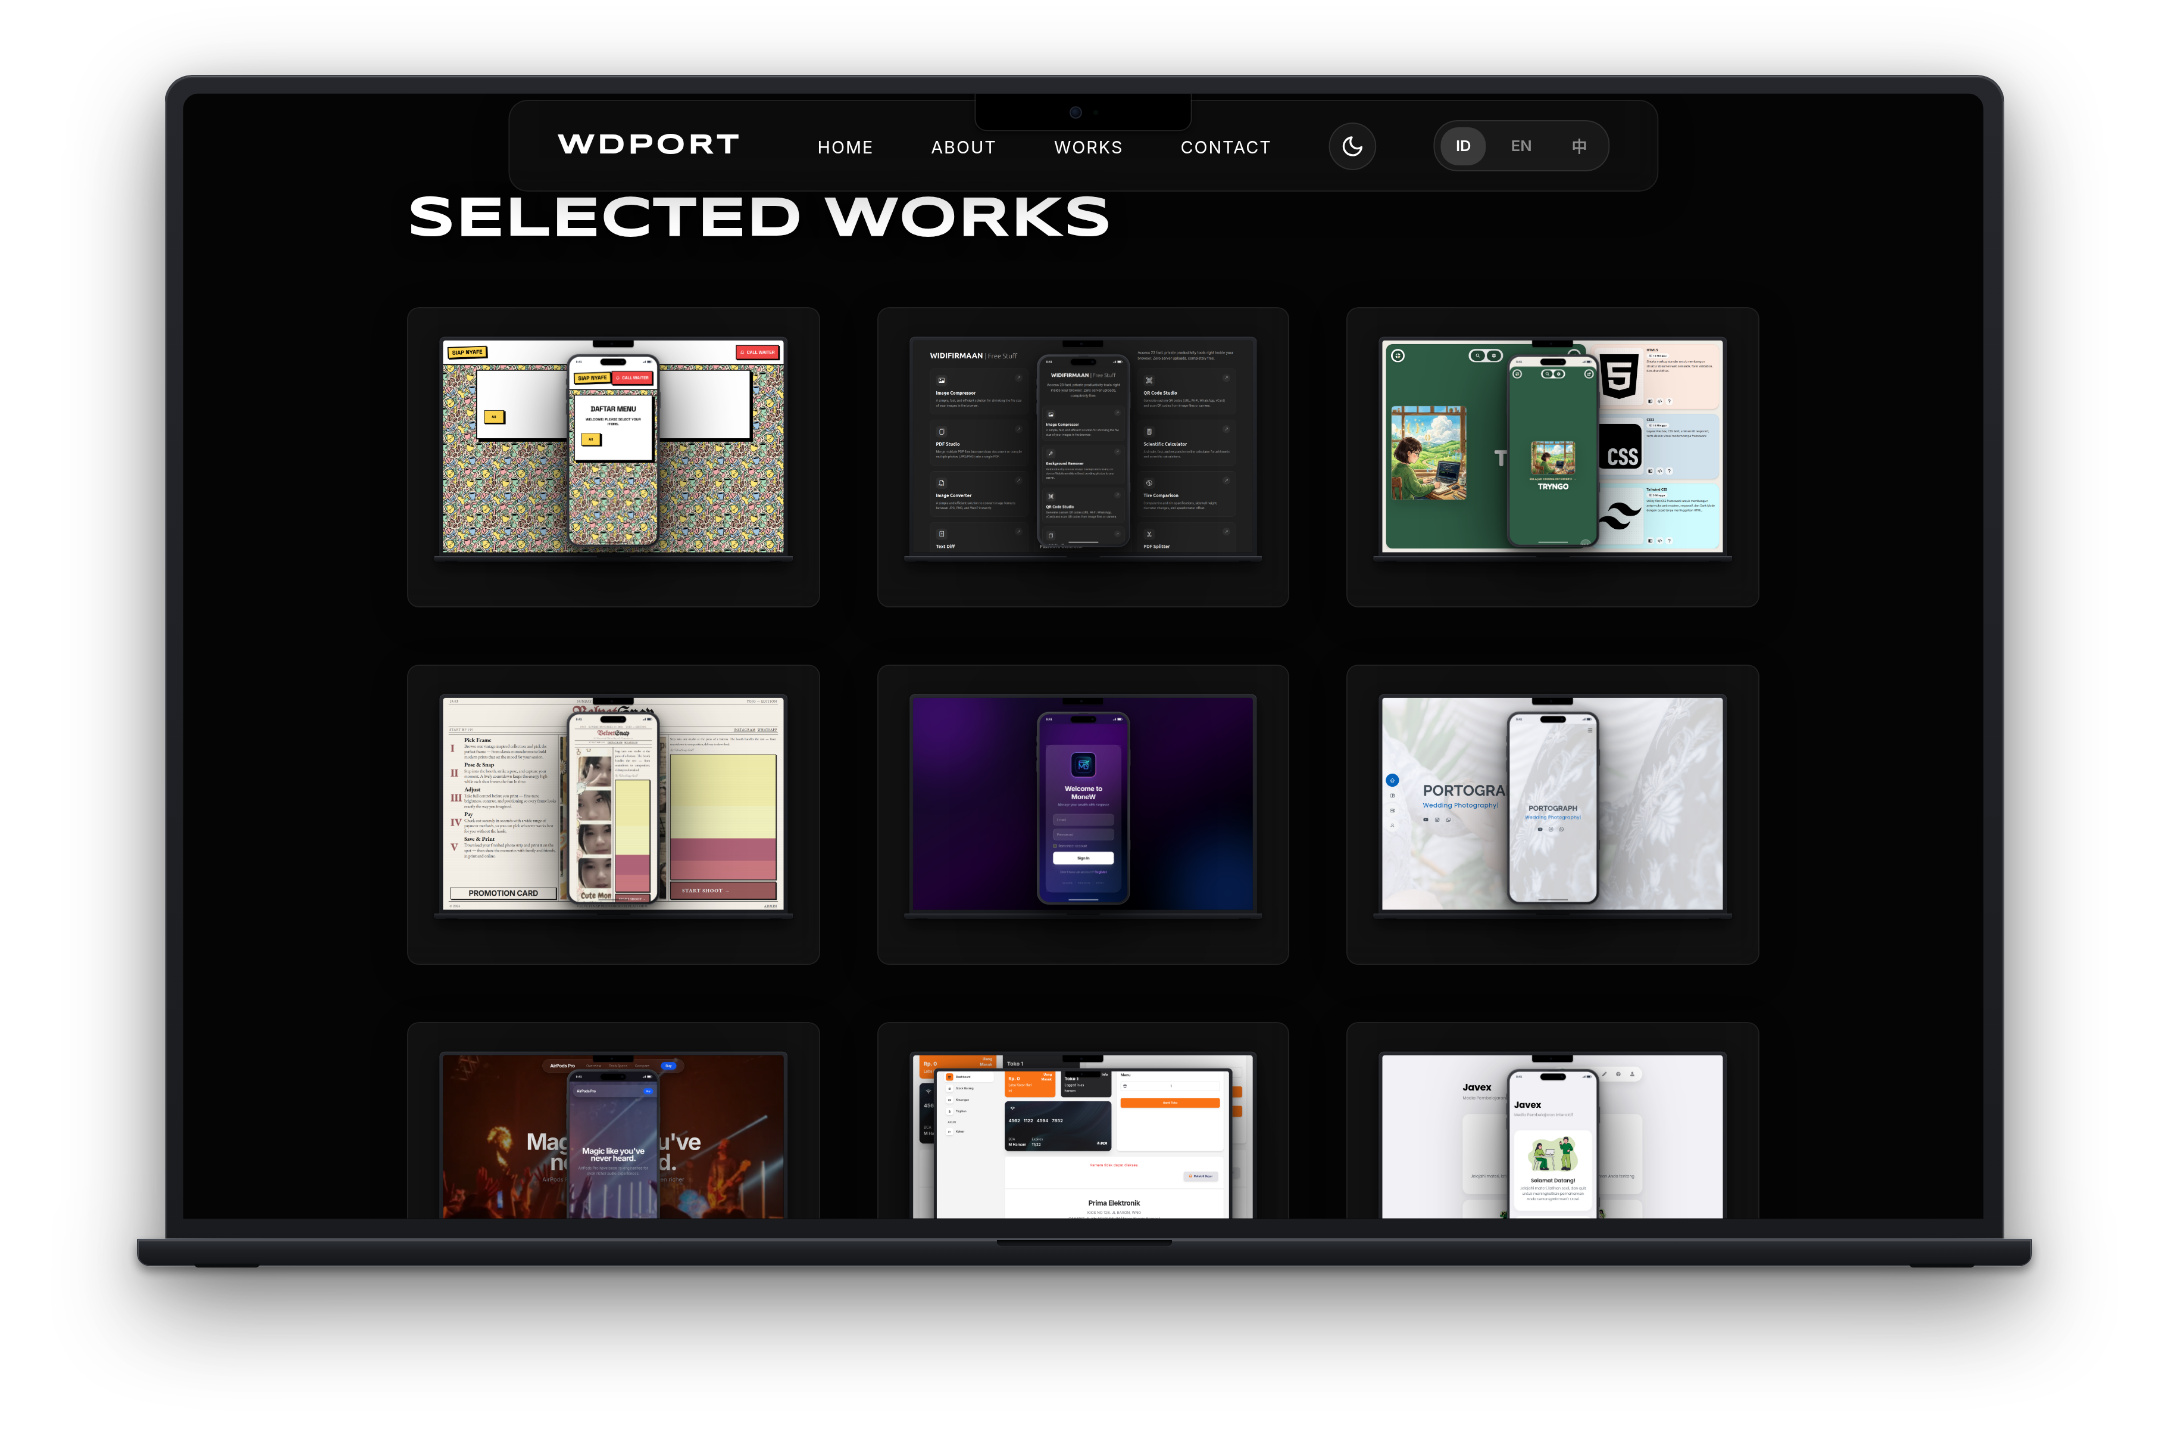
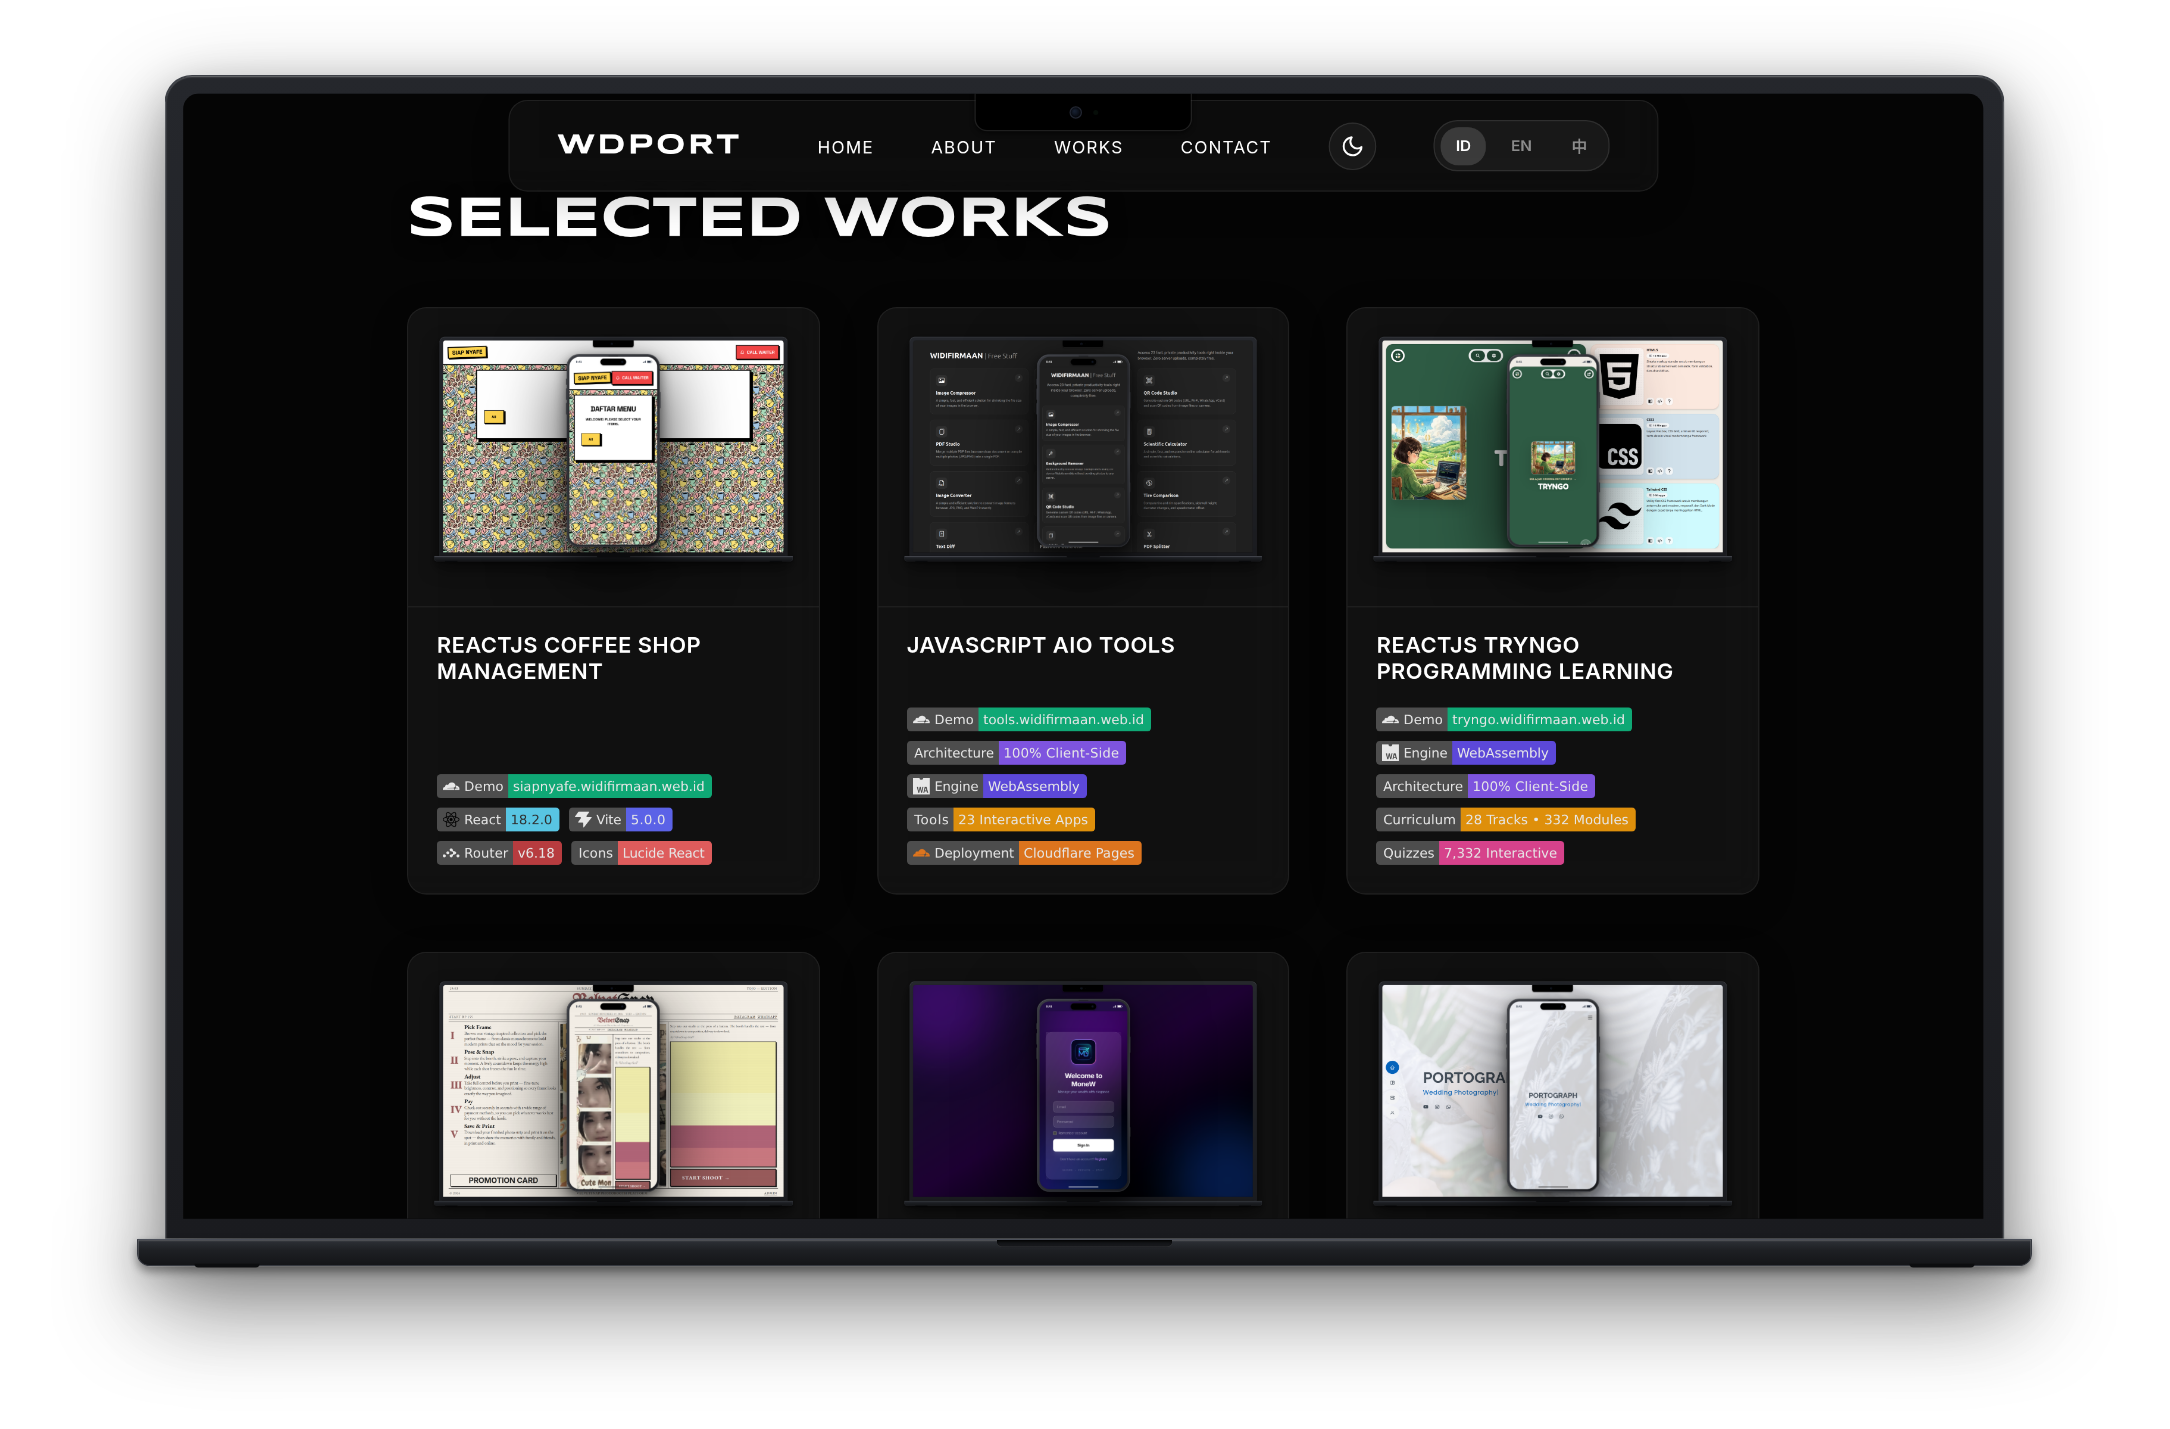
feat(ui): display app name and badges below thumbnail without hover on mobile and desktop

diff --git a/style.css b/style.css
@@ -451,9 +451,16 @@ section {
 .project-card {
     position: relative;
     overflow: hidden;
-    border-radius: 10px;
+    border-radius: 16px;
     opacity: 0;
     transform: translateY(50px);
+    display: flex;
+    flex-direction: column;
+    transition: transform 0.4s ease, border-color 0.4s ease, box-shadow 0.4s ease;
+}
+
+.project-card:hover {
+    transform: translateY(-6px);
 }
 
 .project-image {
@@ -529,23 +536,23 @@ section {
 }
 
 .project-info {
-    position: absolute;
-    bottom: 0;
-    left: 0;
+    position: relative;
     width: 100%;
-    padding: 2rem;
-    background: linear-gradient(to top, rgba(0, 0, 0, 0.8), transparent);
-    transform: translateY(100%);
-    transition: transform 0.4s ease;
-}
-
-.project-card:hover .project-info {
-    transform: translateY(0);
+    padding: 1.25rem 1.5rem 1.5rem;
+    background: rgba(255, 255, 255, 0.02);
+    border-top: 1px solid rgba(255, 255, 255, 0.06);
+    flex: 1;
+    display: flex;
+    flex-direction: column;
+    justify-content: space-between;
 }
 
 .project-info h3 {
-    font-size: 1.5rem;
-    margin-bottom: 0.5rem;
+    font-size: 1.15rem;
+    font-weight: 700;
+    letter-spacing: 0.02em;
+    margin-bottom: 0.75rem;
+    color: var(--text-color);
 }
 
 .card-badges {
@@ -1155,6 +1162,11 @@ html[data-theme="light"] nav.glass-panel {
 html[data-theme="light"] .project-card.glass-panel {
     background: #ffffff;
     border: 1px solid rgba(0, 0, 0, 0.08);
+}
+
+html[data-theme="light"] .project-info {
+    background: rgba(0, 0, 0, 0.02);
+    border-top: 1px solid rgba(0, 0, 0, 0.06);
 }
 
 /* Controls */

diff --git a/index.html b/index.html
@@ -140,7 +140,7 @@
         <!-- Performance / Preconnect -->
         <link rel="preconnect" href="https://fonts.googleapis.com" />
         <link rel="preconnect" href="https://fonts.gstatic.com" crossorigin />
-        <link rel="stylesheet" href="style.css?v=4.6" />
+        <link rel="stylesheet" href="style.css?v=4.7" />
         <link
             href="https://fonts.googleapis.com/css2?family=Inter:wght@300;400;600&family=Syncopate:wght@700&display=swap"
             rel="stylesheet"
